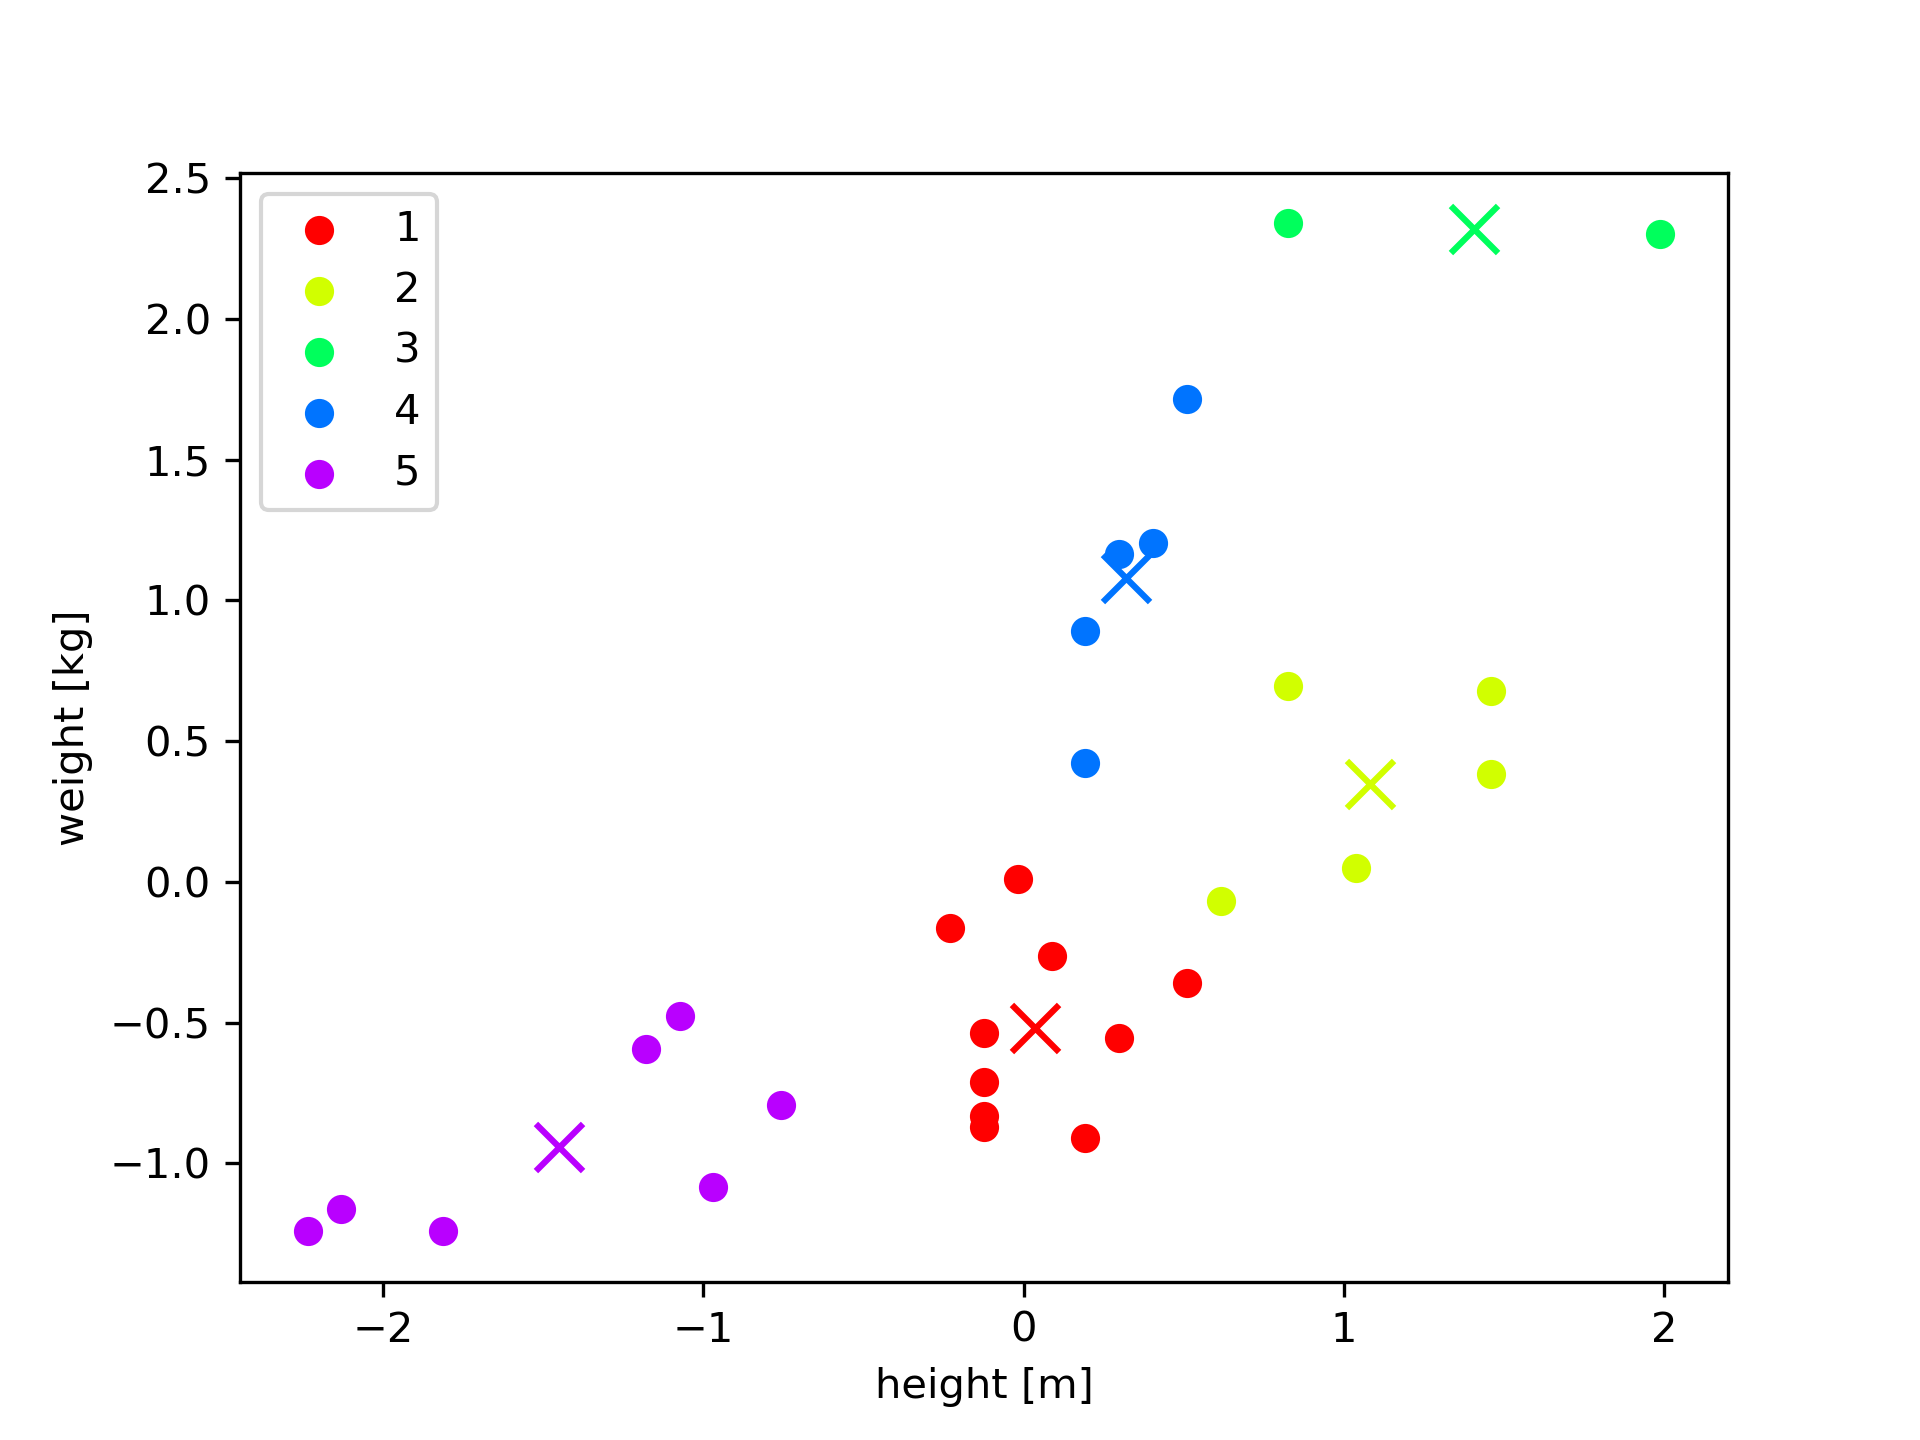
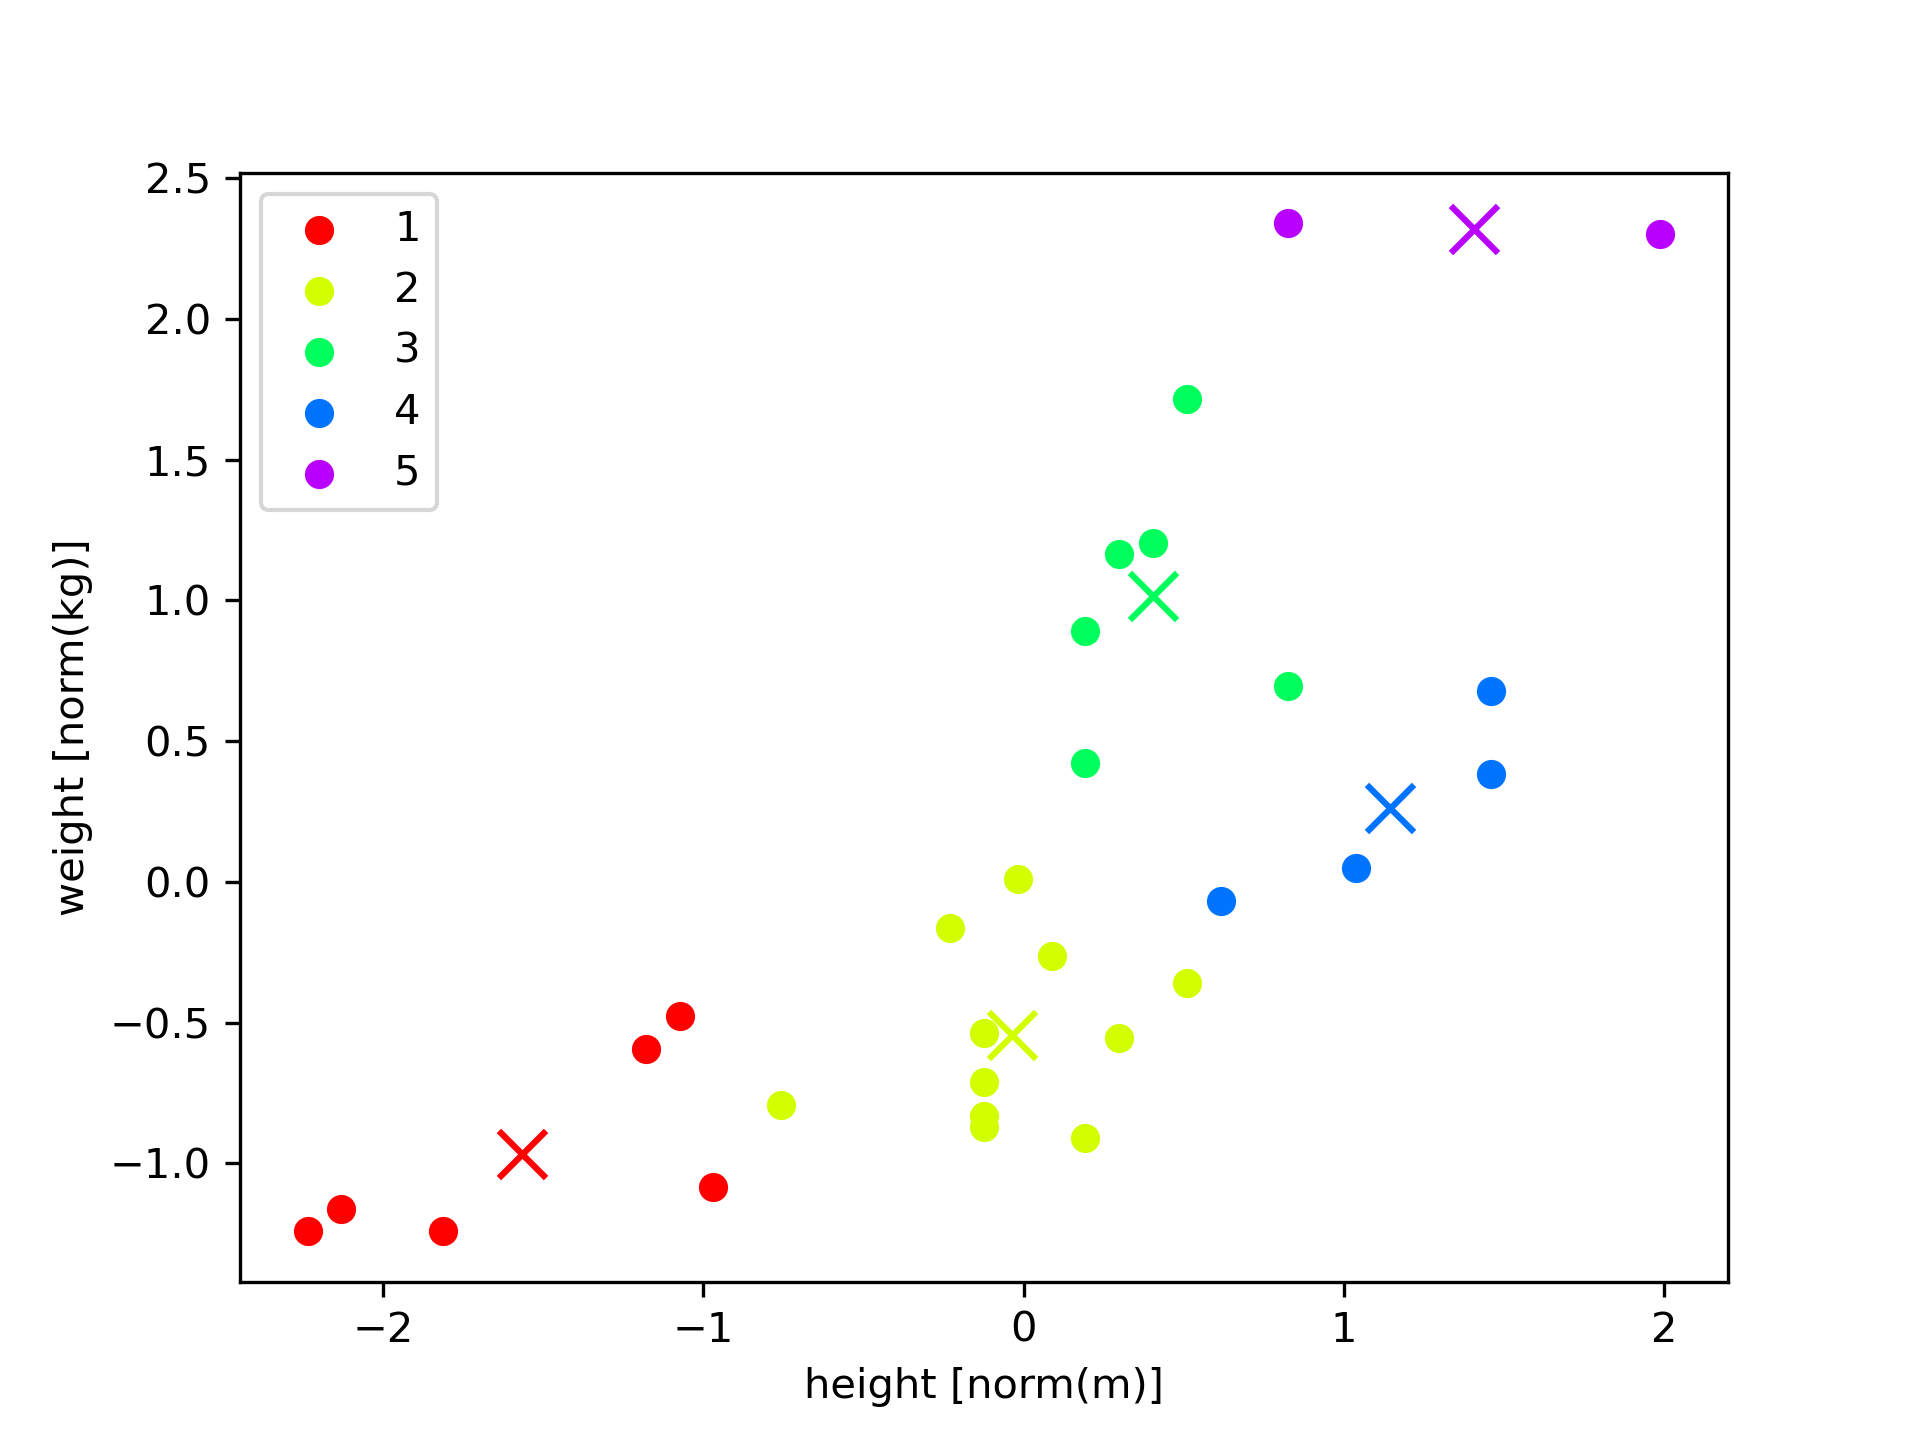
plot normalized data

diff --git a/k-means/k_means.py b/k-means/k_means.py
@@ -109,8 +109,8 @@ def main():
         plt.scatter(height_x, weight_y, label=k+1, marker='o', color=color)
         plt.scatter(centroids[k,0], centroids[k,1], marker='x', s=128, color=color)
     plt.legend()
-    plt.xlabel('height [m]')
-    plt.ylabel('weight [kg]')
+    plt.xlabel('height [norm(m)]')
+    plt.ylabel('weight [norm(kg)]')
     plt.savefig('clusters.svg', dpi=300)
     plt.savefig('clusters.png', dpi=300)
     plt.show()
